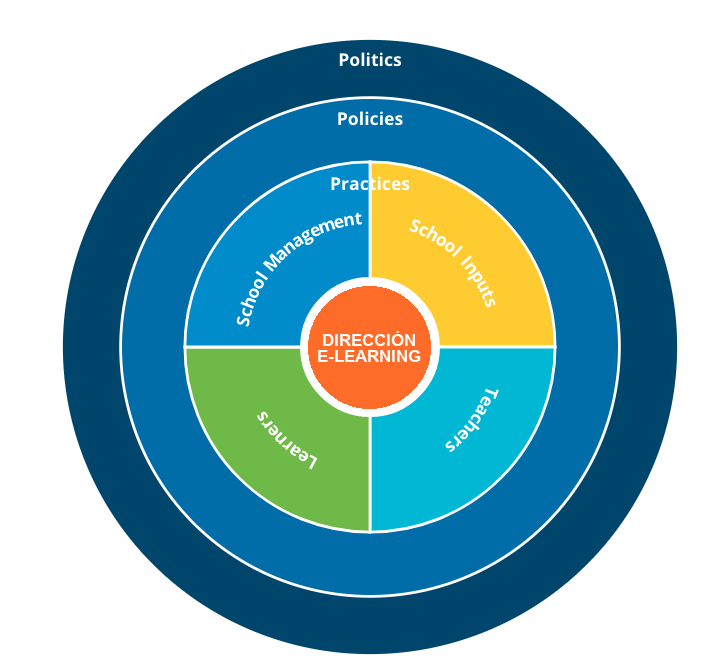
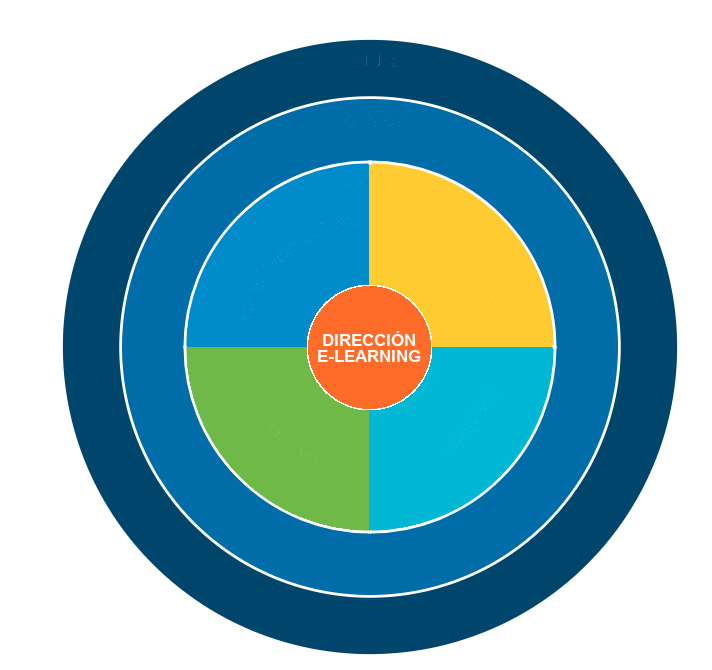
Quitar palabras en ingles de la figura (quedan solo colores y Direccion E-learning en el centro)

diff --git a/index.html b/index.html
@@ -1884,7 +1884,7 @@
           <!-- Círculo con anillo de facultades clicables alrededor del borde -->
           <div class="edu-hub-col">
             <div class="edu-hub" id="edu-hub">
-              <img src="/icons/education-policy-dashboard.png?v=3" alt="Dirección E-learning — marco de política educativa" loading="lazy"/>
+              <img src="/icons/education-policy-dashboard.png?v=4" alt="Dirección E-learning — marco de política educativa" loading="lazy"/>
               <div class="edu-hub-ring" id="edu-hub-ring"></div>
             </div>
           </div>
